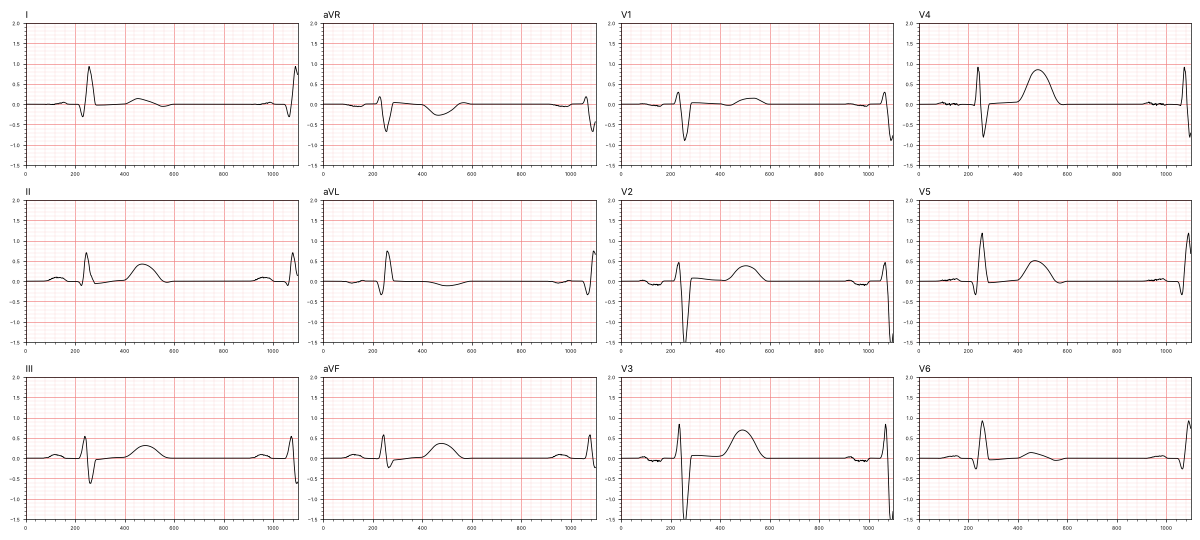
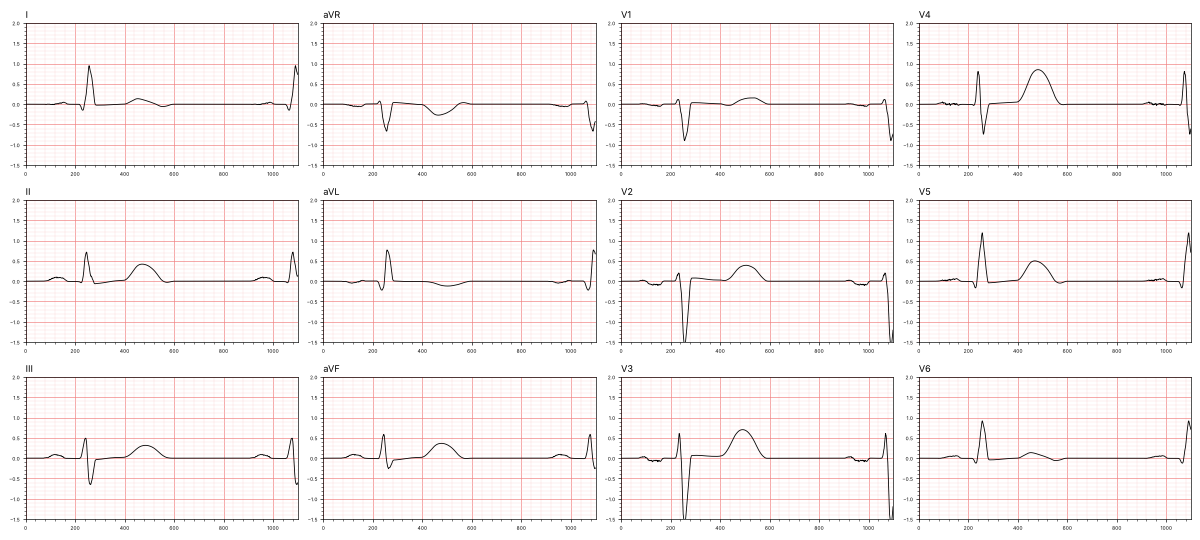
Two-fascicle left bundle; fascicle territories in the LV Purkinje network
- Septal fascicle off by default (optional); LAF/LPF end at the anterior and
  posterior paraseptal early-activation sites
- LV Purkinje nodes carry a fascicle territory, with a configurable
  conduction factor on cross-territory links (inert at default)

Claude-Session: https://claude.ai/code/session_01N3fnoNur3zYQuDHv6A5Tbk

diff --git a/index.html b/index.html
@@ -413,7 +413,13 @@ input[type=range] { width: 100%; accent-color: var(--accent); margin: 0; }
     rbbSeptalFrac: 0.15,
     rbbSeptalDelay: 13,    // ms extra delay into the RV septal Purkinje
 
-    lafPhi: 1.95, lafZ: 0.42, lpfPhi: -1.85, lpfZ: 0.42, lsfPhi: 0.05, lsfZ: 0.42,
+    lafPhi: 1.2, lafZ: 0.42, lpfPhi: -1.2, lpfZ: 0.42, lsfPhi: 0.05, lsfZ: 0.42,
+    septalFascicle: false,  // optional left septal fascicle (anatomically debated; off)
+    fascConnectFrac: 0.35,  // distal fraction of LAF/LPF giving off Purkinje branches
+    septalTerrHalf: 0.5,    // half-width (rad) of the mid-septal Purkinje territory
+    lbbSeptalFrac: 0,           // distal fraction of the LBB trunk giving off septal Purkinje
+    lpfTerrLo: -2.6, lpfTerrHi: 0.0,  // LPF territory in rotational UVC (inferior/posterior wall)
+    purkCrossSlow: 1.0,     // conduction-time factor on Purkinje links between fascicle territories
     heartRotation: 25,
     apexX: 72, apexY: -20,  // apex position in the chest (mm from midline / from V4 level)
     chestGap: 15,          // closest heart–anterior chest wall distance (mm)      // degrees about the AP axis (+ = more vertical heart)
@@ -764,12 +770,13 @@ input[type=range] { width: 100%; accent-color: var(--accent); margin: 0; }
         const path = A.path(A.nearest(this.pt(lbbEnd), endoLV), tgt, endoLV).map(P2);
         return this.chain(KIND.BUNDLE, seg, path, P.cvBundle, 2.0, lbbEnd);
       };
-      // Fascicle terminals follow Durrer's early LV endocardial sites:
-      // high anterior paraseptal (LAF), posterior paraseptal ~1/3 from the
-      // apex (LPF) and central left septum (LSF).
+      // Two-fascicle left bundle: terminals at Durrer's anterior and posterior
+      // paraseptal early-activation sites; their Purkinje branches reach the
+      // left septal surface, giving the normal left-to-right septal
+      // depolarisation. A separate septal fascicle can be switched on.
       this.laf = fasc(SEG.LAF, P.lafPhi, P.lafZ);
       this.lpf = fasc(SEG.LPF, P.lpfPhi, P.lpfZ);
-      this.lsf = fasc(SEG.LSF, P.lsfPhi, P.lsfZ);
+      this.lsf = P.septalFascicle ? fasc(SEG.LSF, P.lsfPhi, P.lsfZ) : [];
       this.lbb = lbb;
 
       // ---- Right bundle branch: RV side of septum, then moderator band to
@@ -789,23 +796,38 @@ input[type=range] { width: 100%; accent-color: var(--accent); margin: 0; }
       this.rbb = rbbSept.concat(mb);
 
       // ---- Purkinje networks: sparse nodes over the endocardium (not basal)
-      this.purkLV = this._purkinjeNet(endoLV, P.purkZmaxLV, SEG.PURK_LV);
+      // each LV Purkinje node belongs to the territory of the nearer fascicle
+      const fascs = [this.laf, this.lpf].concat(this.lsf.length ? [this.lsf] : []);
+      // LPF supplies the inferior/posterior wall (rotational UVC between
+      // lpfTerrLo and lpfTerrHi); LAF the anterior and lateral walls; an
+      // optional septal fascicle takes the mid-septum.
+      // The mid-septal surface is its own territory, fed by the LBB's septal
+      // branches (or the septal fascicle when enabled).
+      const territory = (c) => {
+        const ph = A.phi[c];
+        if (Math.abs(ph) < P.septalTerrHalf && A.zuvc[c] > 0.25) return 2;
+        return ph > P.lpfTerrLo && ph < P.lpfTerrHi ? 1 : 0;
+      };
+      this.purkLV = this._purkinjeNet(endoLV, P.purkZmaxLV, SEG.PURK_LV, territory);
       this.purkRV = this._purkinjeNet((c) => endoRV(c), P.purkZmaxRV, SEG.PURK_RV);
 
       // Fascicle terminals fan into the Purkinje network
-      const connect = (nodes, net, frac, radius, extra = 0) => {
+      const inTerr = (k) => (b) => this.purkTerritory.get(b) === k;
+      const connect = (nodes, net, frac, radius, extra = 0, ok = null) => {
         const from = Math.floor(nodes.length * (1 - frac));
         for (let s = from; s < nodes.length; s++) {
           const a = nodes[s], pa = this.pt(a);
           for (const b of net) {
+            if (ok && !ok(b)) continue;
             const d = len(sub(pa, this.pt(b)));
             if (d < radius) this.edge(a, b, d / P.cvPurkinje + 0.5 + extra);
           }
         }
       };
-      connect(this.laf, this.purkLV, 0.35, 6);
-      connect(this.lpf, this.purkLV, 0.35, 6);
-      connect(this.lsf, this.purkLV, 0.50, 6);
+      if (P.lbbSeptalFrac > 0) connect(lbb, this.purkLV, P.lbbSeptalFrac, 8, 0, inTerr(2));   // LBB fans over the left septal surface
+      connect(this.laf, this.purkLV, P.fascConnectFrac, 6, 0, inTerr(0));
+      connect(this.lpf, this.purkLV, P.fascConnectFrac, 6, 0, inTerr(1));
+      if (this.lsf.length) connect(this.lsf, this.purkLV, 0.50, 6, 0, inTerr(2));
       connect(mb, this.purkRV, 0.30, 7);
       // apical septal RV Purkinje (thin RBB branches: activate the RV septal
       // surface shortly after the LV septum, giving the normal septal q/r)
@@ -850,7 +872,7 @@ input[type=range] { width: 100%; accent-color: var(--accent); margin: 0; }
     // Poisson-disc sample endocardial voxels into Purkinje nodes; link nodes
     // within a radius (same chamber), and couple each node to the muscle it
     // lies on through a Purkinje–muscle junction (PMJ).
-    _purkinjeNet(filter, zMax, seg) {
+    _purkinjeNet(filter, zMax, seg, territory = null) {
       const A = this.A, P = this.P, R = 3.6, rnd = rng(1234 + seg);
       const cand = [];
       for (let c = 0; c < A.n; c++) if (filter(c) && A.zuvc[c] >= 0 && A.zuvc[c] < zMax) cand.push(c);
@@ -878,12 +900,15 @@ input[type=range] { width: 100%; accent-color: var(--accent); margin: 0; }
         return id;
       });
       const idOf = new Map(chosen.map((c, i) => [c, nodes[i]]));
+      const terr = new Map(chosen.map((c) => [c, territory ? territory(c) : 0]));
+      this.purkTerritory = this.purkTerritory || new Map();
+      for (const c of chosen) this.purkTerritory.set(idOf.get(c), terr.get(c));
       for (const c of chosen) {
         const p = A.p(c);
         for (const q of near(p, P.purkLinkR * R)) {
           if (q <= c) continue;
           const d = len(sub(A.p(q), p));
-          if (d < P.purkLinkR * R) this.edge(idOf.get(c), idOf.get(q), d / P.cvPurkinje);
+          if (d < P.purkLinkR * R) this.edge(idOf.get(c), idOf.get(q), d / P.cvPurkinje * (terr.get(c) !== terr.get(q) ? P.purkCrossSlow : 1));
         }
       }
       return nodes;
@@ -1715,7 +1740,7 @@ input[type=range] { width: 100%; accent-color: var(--accent); margin: 0; }
     add('Left bundle', mid(S_.LBB), 'cutaway', 'cs');
     add('Left anterior fascicle', mid(S_.LAF, 0.75), 'cutaway', 'cs');
     add('Left posterior fascicle', mid(S_.LPF, 0.75), 'cutaway', 'cs');
-    add('Septal fascicle', mid(S_.LSF, 0.9), 'cutaway', 'cs');
+    if (S_.LSF.length) add('Septal fascicle', mid(S_.LSF, 0.9), 'cutaway', 'cs');
     add('Right bundle', mid(S_.RBB, 0.45), 'cutaway', 'cs');
     add('Moderator band', mid(S_.RBB, 0.85), 'cutaway', 'cs');
 

diff --git a/src/engine.js b/src/engine.js
@@ -127,7 +127,13 @@
     rbbSeptalFrac: 0.15,
     rbbSeptalDelay: 13,    // ms extra delay into the RV septal Purkinje
 
-    lafPhi: 1.95, lafZ: 0.42, lpfPhi: -1.85, lpfZ: 0.42, lsfPhi: 0.05, lsfZ: 0.42,
+    lafPhi: 1.2, lafZ: 0.42, lpfPhi: -1.2, lpfZ: 0.42, lsfPhi: 0.05, lsfZ: 0.42,
+    septalFascicle: false,  // optional left septal fascicle (anatomically debated; off)
+    fascConnectFrac: 0.35,  // distal fraction of LAF/LPF giving off Purkinje branches
+    septalTerrHalf: 0.5,    // half-width (rad) of the mid-septal Purkinje territory
+    lbbSeptalFrac: 0,           // distal fraction of the LBB trunk giving off septal Purkinje
+    lpfTerrLo: -2.6, lpfTerrHi: 0.0,  // LPF territory in rotational UVC (inferior/posterior wall)
+    purkCrossSlow: 1.0,     // conduction-time factor on Purkinje links between fascicle territories
     heartRotation: 25,
     apexX: 72, apexY: -20,  // apex position in the chest (mm from midline / from V4 level)
     chestGap: 15,          // closest heart–anterior chest wall distance (mm)      // degrees about the AP axis (+ = more vertical heart)
@@ -478,12 +484,13 @@
         const path = A.path(A.nearest(this.pt(lbbEnd), endoLV), tgt, endoLV).map(P2);
         return this.chain(KIND.BUNDLE, seg, path, P.cvBundle, 2.0, lbbEnd);
       };
-      // Fascicle terminals follow Durrer's early LV endocardial sites:
-      // high anterior paraseptal (LAF), posterior paraseptal ~1/3 from the
-      // apex (LPF) and central left septum (LSF).
+      // Two-fascicle left bundle: terminals at Durrer's anterior and posterior
+      // paraseptal early-activation sites; their Purkinje branches reach the
+      // left septal surface, giving the normal left-to-right septal
+      // depolarisation. A separate septal fascicle can be switched on.
       this.laf = fasc(SEG.LAF, P.lafPhi, P.lafZ);
       this.lpf = fasc(SEG.LPF, P.lpfPhi, P.lpfZ);
-      this.lsf = fasc(SEG.LSF, P.lsfPhi, P.lsfZ);
+      this.lsf = P.septalFascicle ? fasc(SEG.LSF, P.lsfPhi, P.lsfZ) : [];
       this.lbb = lbb;
 
       // ---- Right bundle branch: RV side of septum, then moderator band to
@@ -503,23 +510,38 @@
       this.rbb = rbbSept.concat(mb);
 
       // ---- Purkinje networks: sparse nodes over the endocardium (not basal)
-      this.purkLV = this._purkinjeNet(endoLV, P.purkZmaxLV, SEG.PURK_LV);
+      // each LV Purkinje node belongs to the territory of the nearer fascicle
+      const fascs = [this.laf, this.lpf].concat(this.lsf.length ? [this.lsf] : []);
+      // LPF supplies the inferior/posterior wall (rotational UVC between
+      // lpfTerrLo and lpfTerrHi); LAF the anterior and lateral walls; an
+      // optional septal fascicle takes the mid-septum.
+      // The mid-septal surface is its own territory, fed by the LBB's septal
+      // branches (or the septal fascicle when enabled).
+      const territory = (c) => {
+        const ph = A.phi[c];
+        if (Math.abs(ph) < P.septalTerrHalf && A.zuvc[c] > 0.25) return 2;
+        return ph > P.lpfTerrLo && ph < P.lpfTerrHi ? 1 : 0;
+      };
+      this.purkLV = this._purkinjeNet(endoLV, P.purkZmaxLV, SEG.PURK_LV, territory);
       this.purkRV = this._purkinjeNet((c) => endoRV(c), P.purkZmaxRV, SEG.PURK_RV);
 
       // Fascicle terminals fan into the Purkinje network
-      const connect = (nodes, net, frac, radius, extra = 0) => {
+      const inTerr = (k) => (b) => this.purkTerritory.get(b) === k;
+      const connect = (nodes, net, frac, radius, extra = 0, ok = null) => {
         const from = Math.floor(nodes.length * (1 - frac));
         for (let s = from; s < nodes.length; s++) {
           const a = nodes[s], pa = this.pt(a);
           for (const b of net) {
+            if (ok && !ok(b)) continue;
             const d = len(sub(pa, this.pt(b)));
             if (d < radius) this.edge(a, b, d / P.cvPurkinje + 0.5 + extra);
           }
         }
       };
-      connect(this.laf, this.purkLV, 0.35, 6);
-      connect(this.lpf, this.purkLV, 0.35, 6);
-      connect(this.lsf, this.purkLV, 0.50, 6);
+      if (P.lbbSeptalFrac > 0) connect(lbb, this.purkLV, P.lbbSeptalFrac, 8, 0, inTerr(2));   // LBB fans over the left septal surface
+      connect(this.laf, this.purkLV, P.fascConnectFrac, 6, 0, inTerr(0));
+      connect(this.lpf, this.purkLV, P.fascConnectFrac, 6, 0, inTerr(1));
+      if (this.lsf.length) connect(this.lsf, this.purkLV, 0.50, 6, 0, inTerr(2));
       connect(mb, this.purkRV, 0.30, 7);
       // apical septal RV Purkinje (thin RBB branches: activate the RV septal
       // surface shortly after the LV septum, giving the normal septal q/r)
@@ -564,7 +586,7 @@
     // Poisson-disc sample endocardial voxels into Purkinje nodes; link nodes
     // within a radius (same chamber), and couple each node to the muscle it
     // lies on through a Purkinje–muscle junction (PMJ).
-    _purkinjeNet(filter, zMax, seg) {
+    _purkinjeNet(filter, zMax, seg, territory = null) {
       const A = this.A, P = this.P, R = 3.6, rnd = rng(1234 + seg);
       const cand = [];
       for (let c = 0; c < A.n; c++) if (filter(c) && A.zuvc[c] >= 0 && A.zuvc[c] < zMax) cand.push(c);
@@ -592,12 +614,15 @@
         return id;
       });
       const idOf = new Map(chosen.map((c, i) => [c, nodes[i]]));
+      const terr = new Map(chosen.map((c) => [c, territory ? territory(c) : 0]));
+      this.purkTerritory = this.purkTerritory || new Map();
+      for (const c of chosen) this.purkTerritory.set(idOf.get(c), terr.get(c));
       for (const c of chosen) {
         const p = A.p(c);
         for (const q of near(p, P.purkLinkR * R)) {
           if (q <= c) continue;
           const d = len(sub(A.p(q), p));
-          if (d < P.purkLinkR * R) this.edge(idOf.get(c), idOf.get(q), d / P.cvPurkinje);
+          if (d < P.purkLinkR * R) this.edge(idOf.get(c), idOf.get(q), d / P.cvPurkinje * (terr.get(c) !== terr.get(q) ? P.purkCrossSlow : 1));
         }
       }
       return nodes;

diff --git a/src/app.js b/src/app.js
@@ -352,7 +352,7 @@
     add('Left bundle', mid(S_.LBB), 'cutaway', 'cs');
     add('Left anterior fascicle', mid(S_.LAF, 0.75), 'cutaway', 'cs');
     add('Left posterior fascicle', mid(S_.LPF, 0.75), 'cutaway', 'cs');
-    add('Septal fascicle', mid(S_.LSF, 0.9), 'cutaway', 'cs');
+    if (S_.LSF.length) add('Septal fascicle', mid(S_.LSF, 0.9), 'cutaway', 'cs');
     add('Right bundle', mid(S_.RBB, 0.45), 'cutaway', 'cs');
     add('Moderator band', mid(S_.RBB, 0.85), 'cutaway', 'cs');
 

diff --git a/README.md b/README.md
@@ -13,7 +13,7 @@ Three.js r128 and OrbitControls from CDNs.
 | Area | Done |
 |---|---|
 | Anatomy | Average adult four-chamber heart (Rodero et al. 2021), voxelized at 2 mm (≈37k cells), with decimated surfaces for rendering |
-| Conduction system | SA node, crista terminalis, Bachmann's bundle, AV node (5 decremental segments), His, LBB → LAF/LPF/septal fascicle, RBB → moderator band, LV/RV Purkinje networks, escape pacemakers |
+| Conduction system | SA node, crista terminalis, Bachmann's bundle, AV node (5 decremental segments), His, LBB → LAF/LPF (two-fascicle model; an optional septal fascicle is off by default), RBB → moderator band, LV/RV Purkinje networks, escape pacemakers |
 | Engine | Event-driven automaton with sub-ms arrival times, fibre anisotropy, APD/CV restitution, AV-node decrement and autonomic coupling, per-cell parametric action potential, electrotonic APD modulation |
 | ECG | Limb leads from the Einthoven projection of the heart vector (Goldberger augmented leads); precordial leads blend the heart vector projected on distance-weighted lead vectors (70%) with near-field chest-electrode potentials (30%) |
 | UI | 3D external and four-chamber cutaway views (stencil-capped cut face), label and lead-vector overlays with a live heart vector, 12-lead + rhythm strip on standard paper, interpretation banner, rate and time-scale controls, resizable split |
@@ -23,12 +23,12 @@ Three.js r128 and OrbitControls from CDNs.
 | Sinus rate | PR | QRS | QT / QTc | Frontal axes |
 |---|---|---|---|---|
 | 55 bpm | 151 ms | 76 ms | 392 / 375 ms | |
-| 72 bpm | 142 ms | 76–80 ms | 368 / 403 ms | P +70°, QRS +10–14°, T +73° |
+| 72 bpm | 147 ms | 73 ms | 364 / 399 ms | P +76°, QRS +12°, T +80° |
 | 100 bpm | 133 ms | 76 ms | 334 / 431 ms | |
 | 130 bpm | 129 ms | 76 ms | 308 / 453 ms | |
 
-Morphology at 72 bpm: septal q in I/aVL/V5/V6; normal R-wave progression (V1 0.3/0.9 →
-V2 0.5/1.6 → V3 0.8/1.7 → V4 0.9/0.8 → V5 1.2/0.3 → V6 0.9/0.3 mV R/S); negative aVR; upright T
+Morphology at 72 bpm: septal q in I/aVL/V5/V6; normal R-wave progression (V1 0.1/0.9 →
+V2 0.2/1.6 → V3 0.6/1.6 → V4 0.8/0.7 → V5 1.2/0.2 → V6 0.9/0.1 mV R/S); negative aVR; upright T
 in I, II and V2–V6.
 
 Rhythm source is block-dependent, not rate-dependent: every slider rate stays sinus; blocking
